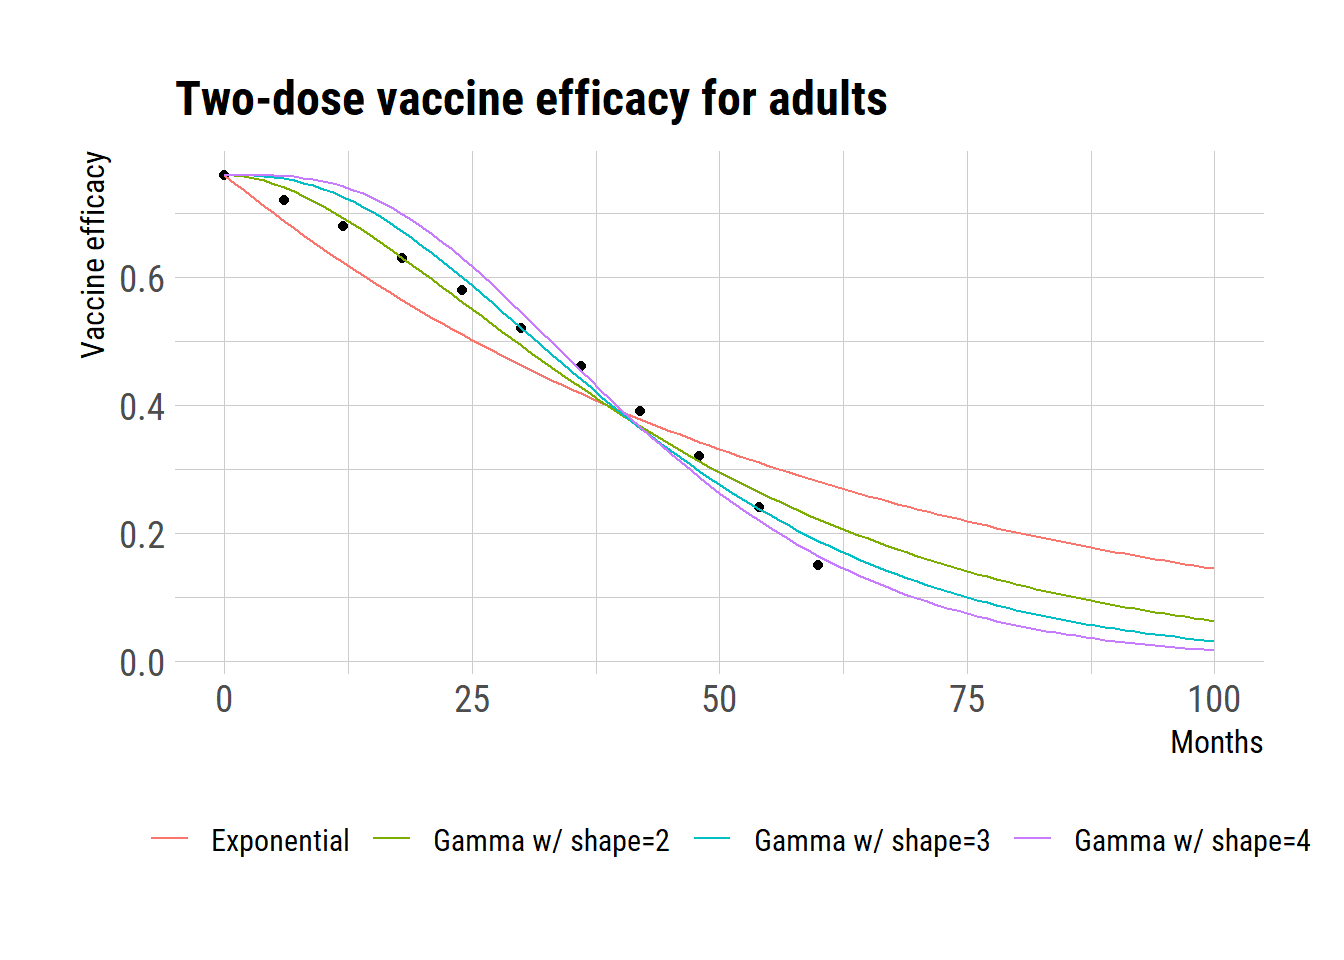
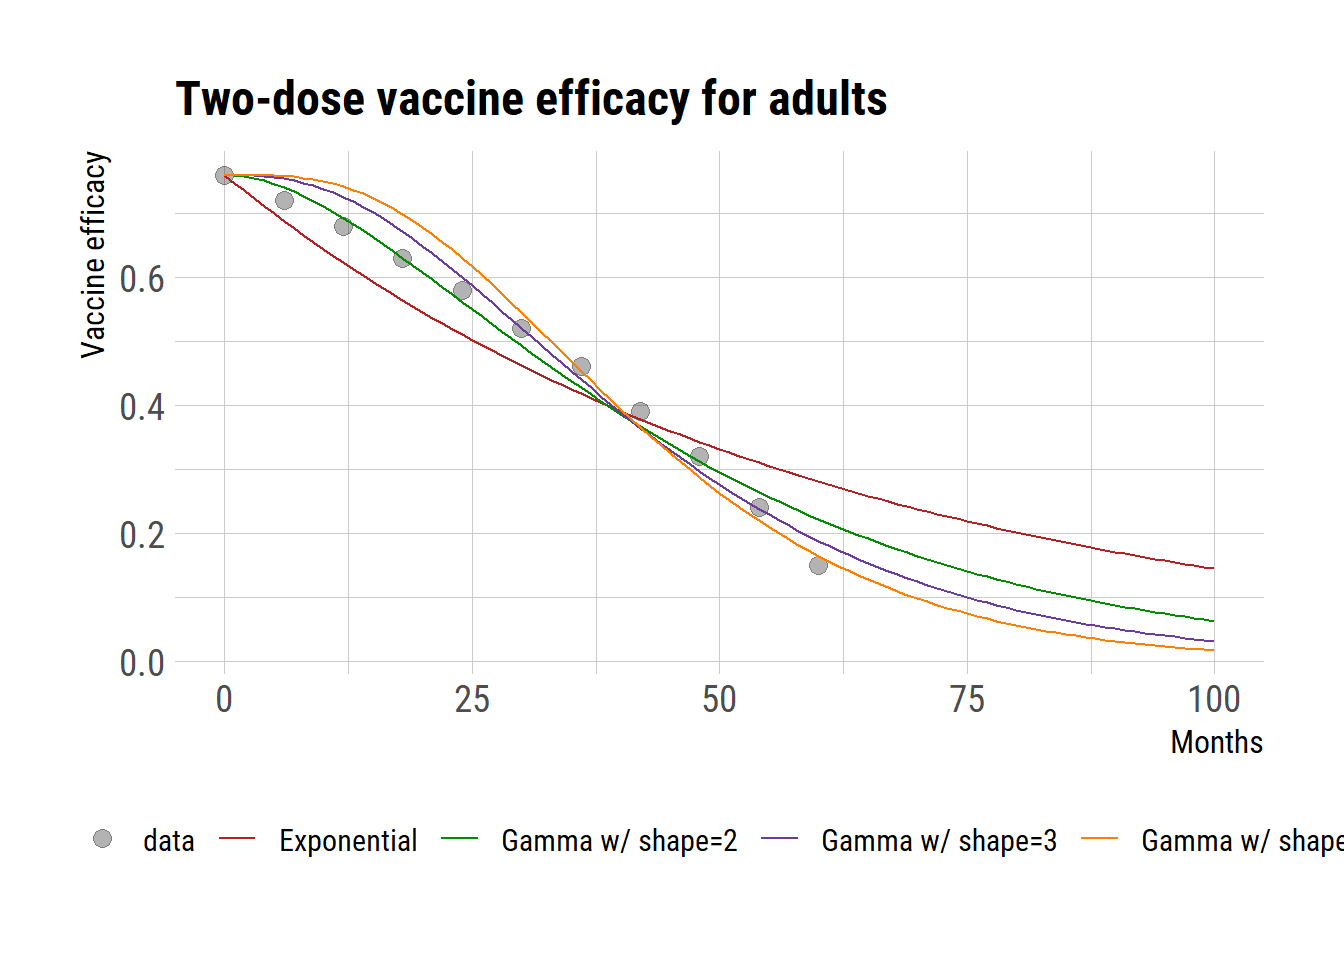
ggplot2 labelling points and lines separately resolved!

diff --git a/docs/posts/vacc_waning_nls_erlang/index.html b/docs/posts/vacc_waning_nls_erlang/index.html
@@ -439,14 +439,32 @@ Achieved convergence tolerance: 9.615e-06</code></pre>
 <span id="cb15-12"><a href="#cb15-12" aria-hidden="true" tabindex="-1"></a>                          <span class="fu">predict</span>(fits_gamma_shape_2[[<span class="dv">1</span>]], <span class="at">newdata =</span> newd),</span>
 <span id="cb15-13"><a href="#cb15-13" aria-hidden="true" tabindex="-1"></a>                          <span class="fu">predict</span>(fits_gamma_shape_3[[<span class="dv">1</span>]], <span class="at">newdata =</span> newd),</span>
 <span id="cb15-14"><a href="#cb15-14" aria-hidden="true" tabindex="-1"></a>                          <span class="fu">predict</span>(fits_gamma_shape_4[[<span class="dv">1</span>]], <span class="at">newdata =</span> newd)))</span>
-<span id="cb15-15"><a href="#cb15-15" aria-hidden="true" tabindex="-1"></a>                 </span>
-<span id="cb15-16"><a href="#cb15-16" aria-hidden="true" tabindex="-1"></a><span class="fu">ggplot</span>() <span class="sc">+</span></span>
-<span id="cb15-17"><a href="#cb15-17" aria-hidden="true" tabindex="-1"></a>  <span class="fu">geom_point</span>(<span class="at">data=</span><span class="fu">filter</span>(dat, age<span class="sc">==</span><span class="st">"Adult"</span>, regimen<span class="sc">==</span><span class="st">"two doses"</span>), </span>
-<span id="cb15-18"><a href="#cb15-18" aria-hidden="true" tabindex="-1"></a>             <span class="fu">aes</span>(month, val), <span class="at">color=</span><span class="st">"black"</span>)<span class="sc">+</span></span>
-<span id="cb15-19"><a href="#cb15-19" aria-hidden="true" tabindex="-1"></a>  <span class="fu">geom_line</span>(<span class="at">data=</span>pred, <span class="fu">aes</span>(month, val, <span class="at">color=</span>type)) <span class="sc">+</span></span>
-<span id="cb15-20"><a href="#cb15-20" aria-hidden="true" tabindex="-1"></a>  <span class="fu">ggtitle</span>(<span class="st">"Two-dose vaccine efficacy for adults"</span>) <span class="sc">+</span></span>
-<span id="cb15-21"><a href="#cb15-21" aria-hidden="true" tabindex="-1"></a>  <span class="fu">labs</span>(<span class="at">y=</span><span class="st">"Vaccine efficacy"</span>, <span class="at">x=</span><span class="st">"Months"</span>, <span class="at">color=</span><span class="st">""</span>)<span class="sc">+</span></span>
-<span id="cb15-22"><a href="#cb15-22" aria-hidden="true" tabindex="-1"></a>  <span class="fu">theme</span>(<span class="at">legend.position =</span> <span class="st">"bottom"</span>)</span></code><button title="Copy to Clipboard" class="code-copy-button"><i class="bi"></i></button></pre></div>
+<span id="cb15-15"><a href="#cb15-15" aria-hidden="true" tabindex="-1"></a></span>
+<span id="cb15-16"><a href="#cb15-16" aria-hidden="true" tabindex="-1"></a>mycolors <span class="ot">&lt;-</span> <span class="fu">c</span>(<span class="st">"dodgerblue2"</span>, <span class="st">"#E31A1C"</span>, <span class="st">"green4"</span>, <span class="st">"#6A3D9A"</span>, <span class="st">"#FF7F00"</span>,</span>
+<span id="cb15-17"><a href="#cb15-17" aria-hidden="true" tabindex="-1"></a>                <span class="st">"black"</span>, <span class="st">"gold1"</span>, <span class="st">"skyblue2"</span>, <span class="st">"palegreen2"</span>, <span class="st">"#FDBF6F"</span>,</span>
+<span id="cb15-18"><a href="#cb15-18" aria-hidden="true" tabindex="-1"></a>                <span class="st">"gray70"</span>, <span class="st">"maroon"</span>, <span class="st">"orchid1"</span>, <span class="st">"darkturquoise"</span>,</span>
+<span id="cb15-19"><a href="#cb15-19" aria-hidden="true" tabindex="-1"></a>                <span class="st">"darkorange4"</span>, <span class="st">"brown"</span>)</span>
+<span id="cb15-20"><a href="#cb15-20" aria-hidden="true" tabindex="-1"></a>                 </span>
+<span id="cb15-21"><a href="#cb15-21" aria-hidden="true" tabindex="-1"></a><span class="fu">ggplot</span>() <span class="sc">+</span></span>
+<span id="cb15-22"><a href="#cb15-22" aria-hidden="true" tabindex="-1"></a>  <span class="fu">geom_point</span>(<span class="at">data=</span><span class="fu">filter</span>(dat, age<span class="sc">==</span><span class="st">"Adult"</span>, regimen<span class="sc">==</span><span class="st">"two doses"</span>), </span>
+<span id="cb15-23"><a href="#cb15-23" aria-hidden="true" tabindex="-1"></a>             <span class="fu">aes</span>(month, val, <span class="at">color=</span><span class="st">"data"</span>), <span class="at">shape=</span><span class="dv">19</span>, <span class="at">size=</span><span class="dv">3</span>, <span class="at">alpha=</span><span class="fl">0.3</span>)<span class="sc">+</span></span>
+<span id="cb15-24"><a href="#cb15-24" aria-hidden="true" tabindex="-1"></a>  <span class="fu">geom_line</span>(<span class="at">data=</span>pred, <span class="fu">aes</span>(month, val, <span class="at">color=</span>type)) <span class="sc">+</span></span>
+<span id="cb15-25"><a href="#cb15-25" aria-hidden="true" tabindex="-1"></a>  <span class="fu">ggtitle</span>(<span class="st">"Two-dose vaccine efficacy for adults"</span>) <span class="sc">+</span></span>
+<span id="cb15-26"><a href="#cb15-26" aria-hidden="true" tabindex="-1"></a>  <span class="fu">labs</span>(<span class="at">y=</span><span class="st">"Vaccine efficacy"</span>, <span class="at">x=</span><span class="st">"Months"</span>, <span class="at">color=</span><span class="st">""</span>)<span class="sc">+</span></span>
+<span id="cb15-27"><a href="#cb15-27" aria-hidden="true" tabindex="-1"></a>  <span class="fu">scale_colour_manual</span>(</span>
+<span id="cb15-28"><a href="#cb15-28" aria-hidden="true" tabindex="-1"></a>    <span class="at">values=</span><span class="fu">c</span>(<span class="st">"data"</span> <span class="ot">=</span> <span class="st">"black"</span>,  <span class="st">"Exponential"</span> <span class="ot">=</span> <span class="st">"firebrick"</span>,</span>
+<span id="cb15-29"><a href="#cb15-29" aria-hidden="true" tabindex="-1"></a>             <span class="st">"Gamma w/ shape=2"</span> <span class="ot">=</span> <span class="st">"green4"</span>,<span class="st">"Gamma w/ shape=3"</span> <span class="ot">=</span> <span class="st">"#6A3D9A"</span>,</span>
+<span id="cb15-30"><a href="#cb15-30" aria-hidden="true" tabindex="-1"></a>              <span class="st">"Gamma w/ shape=4"</span> <span class="ot">=</span> <span class="st">"#FF7F00"</span>),</span>
+<span id="cb15-31"><a href="#cb15-31" aria-hidden="true" tabindex="-1"></a>    <span class="at">guide=</span><span class="fu">guide_legend</span>(<span class="at">override.aes =</span> <span class="fu">list</span>(</span>
+<span id="cb15-32"><a href="#cb15-32" aria-hidden="true" tabindex="-1"></a>      <span class="at">linetype=</span><span class="fu">c</span>(<span class="st">"data"</span><span class="ot">=</span><span class="st">"blank"</span>,<span class="st">"Exponential"</span> <span class="ot">=</span> <span class="st">"solid"</span>,</span>
+<span id="cb15-33"><a href="#cb15-33" aria-hidden="true" tabindex="-1"></a>                          <span class="st">"Gamma w/ shape=2"</span> <span class="ot">=</span> <span class="st">"solid"</span>,</span>
+<span id="cb15-34"><a href="#cb15-34" aria-hidden="true" tabindex="-1"></a>                          <span class="st">"Gamma w/ shape=3"</span> <span class="ot">=</span> <span class="st">"solid"</span>,</span>
+<span id="cb15-35"><a href="#cb15-35" aria-hidden="true" tabindex="-1"></a>                          <span class="st">"Gamma w/ shape=4"</span> <span class="ot">=</span> <span class="st">"solid"</span>),</span>
+<span id="cb15-36"><a href="#cb15-36" aria-hidden="true" tabindex="-1"></a>      <span class="at">shape=</span><span class="fu">c</span>(<span class="st">'data'</span><span class="ot">=</span><span class="dv">19</span>,<span class="st">"Exponential"</span> <span class="ot">=</span> <span class="cn">NA</span>,</span>
+<span id="cb15-37"><a href="#cb15-37" aria-hidden="true" tabindex="-1"></a>                          <span class="st">"Gamma w/ shape=2"</span> <span class="ot">=</span> <span class="cn">NA</span>,</span>
+<span id="cb15-38"><a href="#cb15-38" aria-hidden="true" tabindex="-1"></a>                          <span class="st">"Gamma w/ shape=3"</span> <span class="ot">=</span> <span class="cn">NA</span>,</span>
+<span id="cb15-39"><a href="#cb15-39" aria-hidden="true" tabindex="-1"></a>                          <span class="st">"Gamma w/ shape=4"</span> <span class="ot">=</span> <span class="cn">NA</span>))))<span class="sc">+</span> </span>
+<span id="cb15-40"><a href="#cb15-40" aria-hidden="true" tabindex="-1"></a>  <span class="fu">theme</span>(<span class="at">legend.position =</span> <span class="st">"bottom"</span>)</span></code><button title="Copy to Clipboard" class="code-copy-button"><i class="bi"></i></button></pre></div>
 <div class="cell-output-display">
 <p><img src="index_files/figure-html/unnamed-chunk-6-1.png" class="img-fluid" width="672"></p>
 </div>

diff --git a/docs/index.html b/docs/index.html
@@ -154,7 +154,7 @@ ul.task-list li input[type="checkbox"] {
 
 <div class="quarto-listing quarto-listing-container-default" id="listing-listing">
 <div class="list quarto-listing-default">
-<div class="quarto-post image-right" data-index="0" data-categories="vaccine-derived immunity,waning,cholera,ODE,exponential,Gamma" data-listing-date-sort="1708959600000" data-listing-file-modified-sort="1709003434158" data-listing-date-modified-sort="NaN" data-listing-reading-time-sort="8">
+<div class="quarto-post image-right" data-index="0" data-categories="vaccine-derived immunity,waning,cholera,ODE,exponential,Gamma" data-listing-date-sort="1708959600000" data-listing-file-modified-sort="1709007769915" data-listing-date-modified-sort="NaN" data-listing-reading-time-sort="10">
 <div class="thumbnail">
 <p><a href="./posts/vacc_waning_nls_erlang/index.html"> <img src="./posts/vacc_waning_nls_erlang/lnorm_exp_erlang.png" class="thumbnail-image"> </a></p>
 </div>
